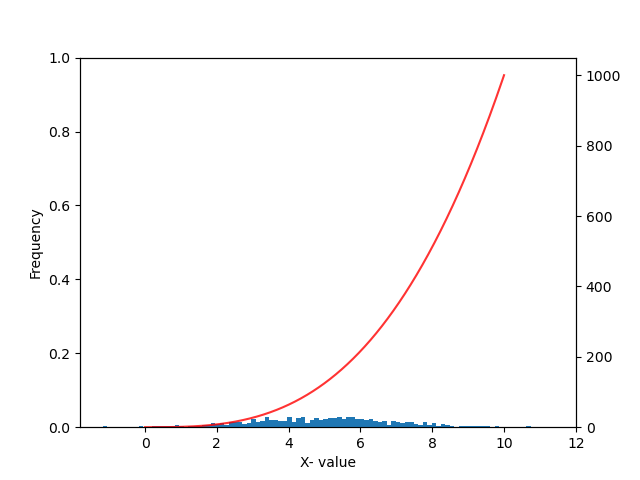
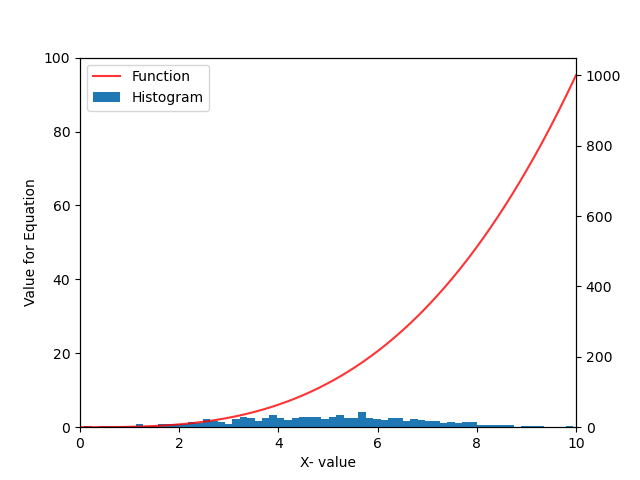
finished plottask.py - had to reformat the program entirely as my axis were not displaying correctly.

diff --git a/pands-weeklytasks/Week08/tester2.py b/pands-weeklytasks/Week08/tester2.py
@@ -1,22 +1,20 @@
 import matplotlib.pyplot as plt
-import numpy as np
 
-line = [0.2, 0.3, 0.37, 0.4, 0.6, 0.7, 0.72, 0.75, 0.77, 0.78, 0.79, 0.795]
-distribution = [0.2, 0.3, 0.3, 0.4, 0.7, 0.7, 0.7, 0.8]
+from mpl_toolkits.axes_grid1 import host_subplot
 
-fig, ax = plt.subplots(1, 1)
+host = host_subplot(111)
+par = host.twinx()
 
-ax2 = ax.twinx()
-ax3 = ax2.twiny()
+host.set_xlabel("Distance")
+host.set_ylabel("Density")
+par.set_ylabel("Temperature")
 
-ax.plot(line)
-ax.set_xlabel('line xaxis')
-ax.set_ylabel('line yaxis')
+p1, = host.plot([0, 1, 2], [0, 1, 2], label="Density")
+p2, = par.plot([0, 1, 2], [0, 3, 2], label="Temperature")
 
-ax3.hist(distribution, orientation='horizontal', alpha=.5)
-ax3.invert_xaxis()
-ax3.set_xlabel('hist xaxis, note where 0 is')
-# note this needs to be ax2 due to subtle overlay issues....
-ax2.set_ylabel('hist yaxis')
-plt.draw()
+host.legend(labelcolor="linecolor")
+
+host.yaxis.label.set_color(p1.get_color())
+par.yaxis.label.set_color(p2.get_color())
+
 plt.show()

diff --git a/pands-weeklytasks/Week08/tester3.py b/pands-weeklytasks/Week08/tester3.py
@@ -1,23 +1,3 @@
-#plottask.py
-# script for plotting histograms and a funstion on same axis 
-# Author Cathal Redmond 26 Apr 2025
-'''
-Instructions: 
-Write a program called plottask.py that displays:
-
-a histogram of a normal distribution of a 1000 values with a mean of 5 and standard deviation of 2, 
-and a plot of the function  h(x)=x3 in the range 0 to 10, 
-on the one set of axes.
-Some marks will be given for making the plot look nice (legend etc).
-
-Please put a copy of the image of the plot (.png file) into the repository
-'''
-#References
-# https://www.w3schools.com/python/ref_func_pow.asp
-# https://stackoverflow.com/questions/14762181/adding-a-y-axis-label-to-secondary-y-axis-in-matplotlib
-# https://stackoverflow.com/questions/9622163/save-plot-to-image-file-instead-of-displaying-it
-
-# imports
 import matplotlib.pyplot as pt
 import numpy as np
 
